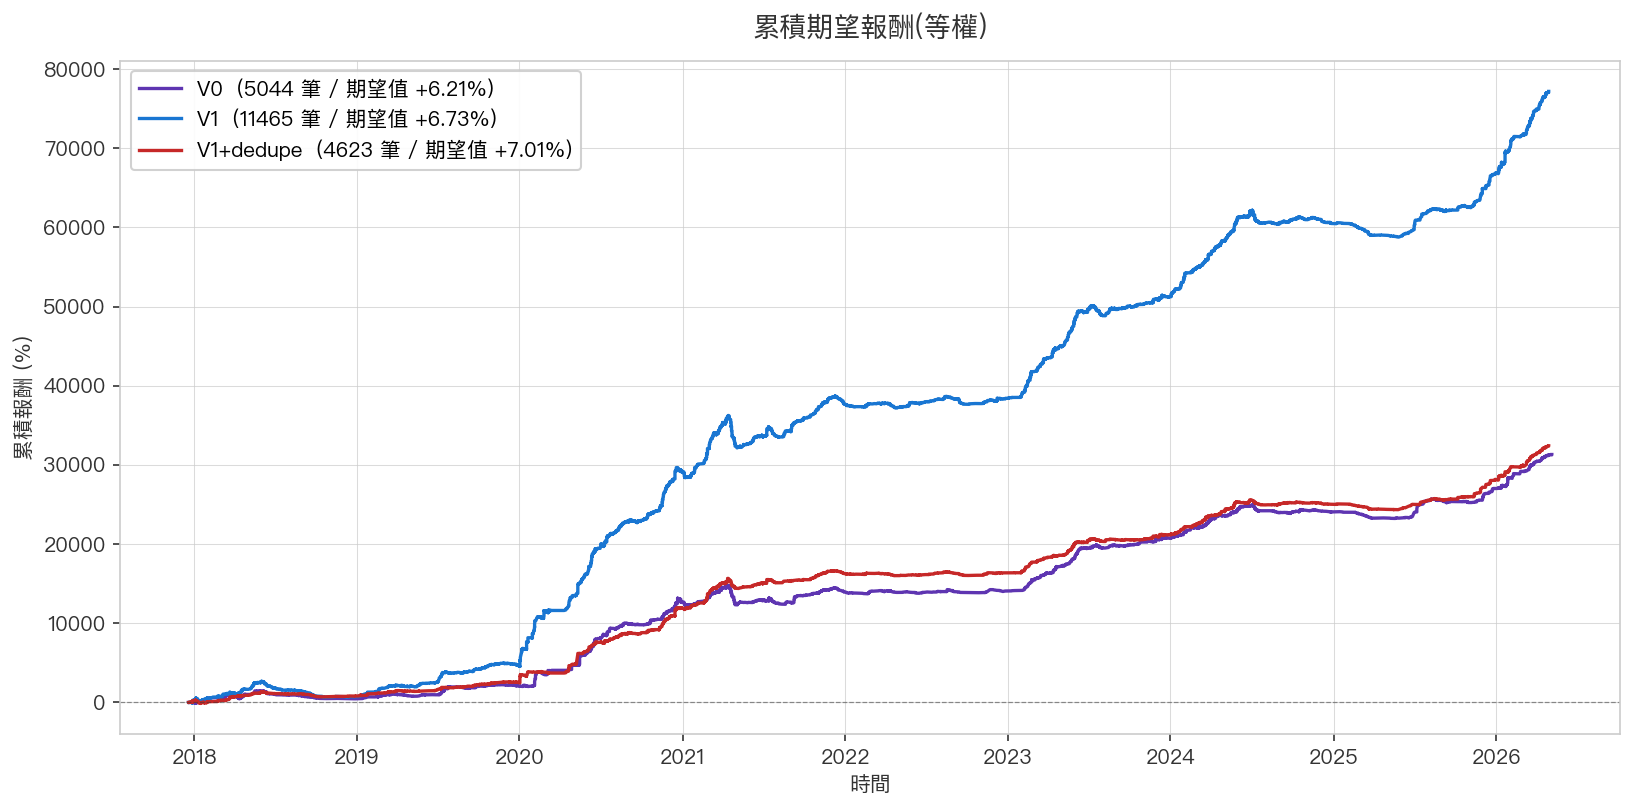
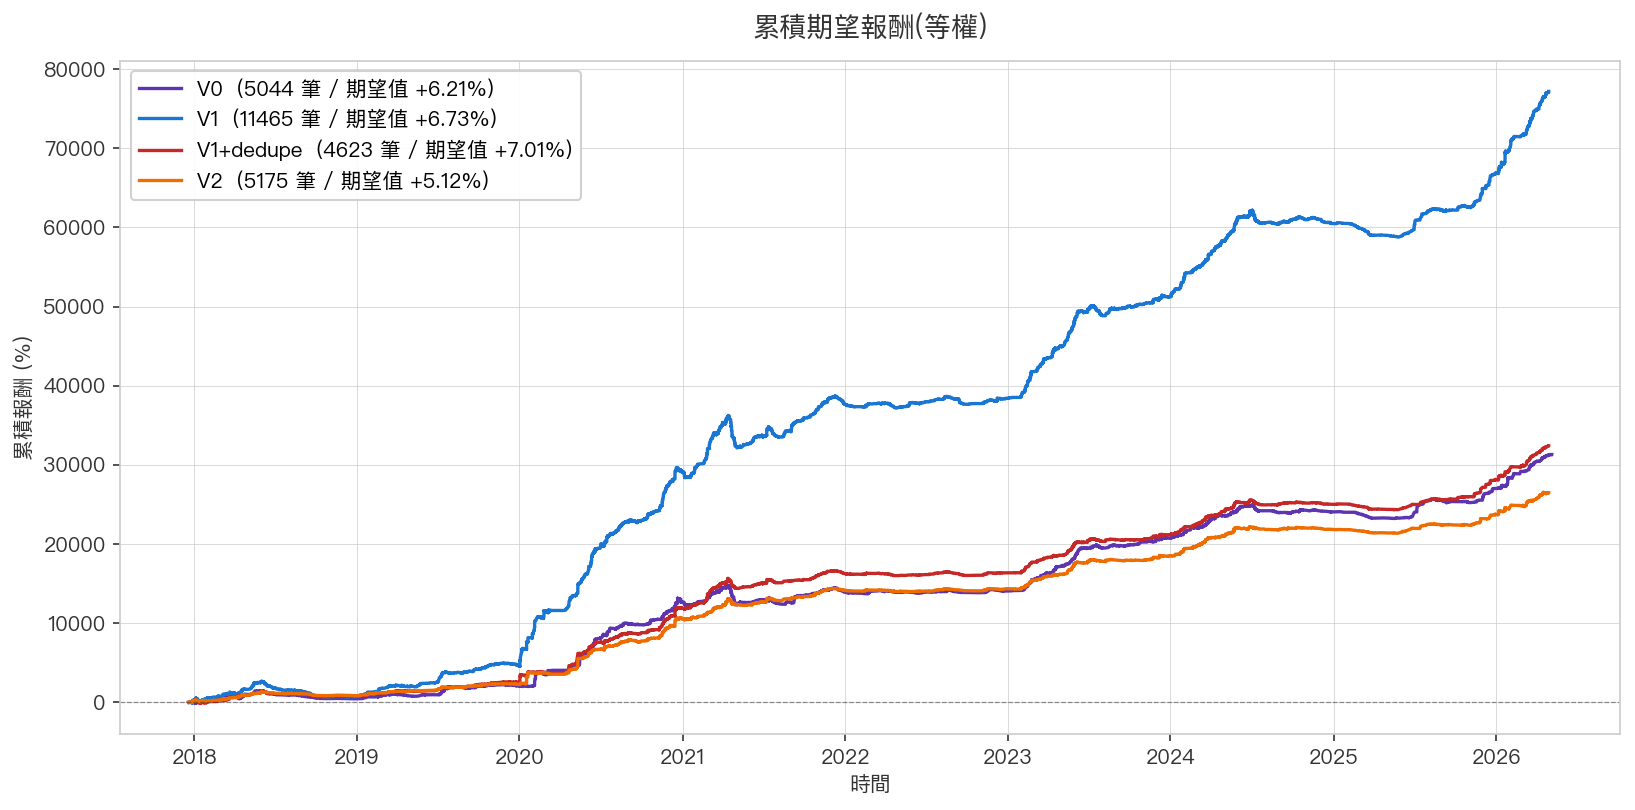
data(red-burst): 新增 V2 變體頁(D5 verify exit / 保守風險型)
V2 = V1+dedupe + D5 verify exit:
- 進場規則同 V1(D1 close 直接 / 漲停 D2 open)
- 進場後第 5 個交易日:D5 close < D1 close 則立即出場
- 否則進入 20 天滾動結算

V2 取捨(vs V1+dedupe):
- 期望值 +7.01% → +5.12% (-1.89%)
- 勝率 45.9% → 32.6% (-13.3pp)
- 最大輸單 -54.3% → -36.8% (改善 +17.5pp)
- 平均持有 30.4 → 20.2 天

V2 為保守選項,不取代現役 V1+dedupe。

新增:
- docs/about/strategy_red_burst_v2.md
- mkdocs.yml nav 加 V2 子頁
- 主頁總表加 V2 行 + 5 張圖含 V2(橘色)

diff --git a/docs/about/strategy_red_burst_v2.md b/docs/about/strategy_red_burst_v2.md
@@ -1,0 +1,125 @@
+# 🛡 紅爆 V2(D5 verify exit — 早期止損版)
+
+> **狀態**:V2 為「**保守風險型變體**」,backtest 驗證後不取代現役 V1+dedupe,
+> 但保留作為「想嚴控大跌風險」場景的選項。
+
+---
+
+## 設計動機
+
+V0 用 D4/D5 驗證**決定是否進場**(早期過濾假突破)。V2 反過來用 — V1 進場(D1
+直接),但**進場後第 5 個交易日驗證**:
+
+```
+若 D5 close < D1 close  → 立即出場(早期止損,放棄 20 天結算)
+若 D5 close ≥ D1 close  → 進入正常 20 天滾動結算
+```
+
+V2 的核心問題:**V1 期望值雖高(+7.01%),但最大輸單 -54% 的尾部風險嚇人**。
+V2 用「進場 5 天看苗頭不對就跑」換取風險改善。
+
+---
+
+## 進場條件
+
+跟 [V1](strategy_red_burst_v1.md) **完全相同**:
+
+| Step | 條件 |
+|------|------|
+| 1 | D1 創 400 日新高 + 量 ≥ 20 日均量 3x |
+| 2 | D1 收盤(13:00 後)直接進場;漲停則 D2 開盤進場 |
+| 3 | Forward dedupe(同檔 active 不重複進場)|
+
+---
+
+## 出場條件 — D5 verify + 20 天結算
+
+```
+進場 → 第 5 個交易日(自 D1 算起):
+  D5 close < D1 close → 立即出場(early exit)
+  D5 close ≥ D1 close → 滾動 20 天結算 ≥ 5%(同 V1)
+```
+
+---
+
+## 📊 9 年回測對比
+
+| 指標 | V1+dedupe | **V2** | 差距 |
+|------|----------|----|------|
+| 樣本(進場數) | 4623 | **5175** | +552(更多獨立 trade)|
+| 勝率 | **45.9%** | **32.6%** | **-13.3pp** ⬇ |
+| 平均獲利 | +25.58% | **+27.58%** | +2.00 |
+| 平均虧損 | -8.73% | **-5.76%** | **+2.97** ✅ |
+| **每筆期望值** | **+7.01%** | **+5.12%** | **-1.89** ⬇ |
+| 中位數報酬 | -0.98% | -2.22% | -1.24 |
+| **平均持有** | 30.4 天 | **20.2 天** | **-10.2 天**(資金週轉快)|
+| 最大贏單 | +1075% | +1075% | 持平 |
+| **最大輸單** | -54.3% | **-36.8%** | **+17.5pp** ✅✅ |
+
+### 5 張對比圖
+
+![累積期望](../assets/red_burst/cumulative_expectancy.png)
+
+橘線(V2)累積斜率比紅線(V1+dedupe)平緩,但**回檔幅度小**(風險可控)。
+
+![年度勝率](../assets/red_burst/yearly_winrate.png)
+
+V2 勝率每年都低於 V1+dedupe ~13pp,**這是 D5 早期止損的代價**。
+
+![報酬分布](../assets/red_burst/return_distribution.png)
+
+V2 分布**左尾(虧損)壓縮明顯**:沒有 -50%+ 的單筆,大部分虧損 < 10%。
+
+![核心指標](../assets/red_burst/summary_compare.png)
+
+![總期望](../assets/red_burst/total_expectancy.png)
+
+V2 總期望 = 5.12% × 5175 = **265 點**,vs V1+dedupe 的 324 點(-18%)。
+
+---
+
+## 為何勝率下降這麼多?
+
+V1+dedupe 跑 30 天結算,**進場後初期 5 天內回檔**很常見(健康洗盤),
+這些 trade 後續會反彈走完整波段。
+
+V2 直接在 D5 砍掉:
+- 砍掉的 5388 筆中,**約 13% 後續會走到 +20% 以上**(被 V2 砍時可能在 -2% ~ -5%)
+- 換來的是把「**進場後 5 天就-15% 以上的失敗 trade**」全部止血
+
+→ **V2 用許多潛在贏單換少數大虧單的避免**。
+
+---
+
+## V1+dedupe vs V2 的選擇
+
+| 你是哪種人 | 推薦 |
+|-----------|------|
+| 想最大化長期期望值,能承受單筆 -50% 的偶發大虧 | **V1+dedupe** |
+| 怕單筆爆倉,想嚴控最大輸單 | **V2** |
+| 資金週轉快,想多開倉位 | **V2**(平均持有 20 天 vs 30 天)|
+| 心理可承受連續小虧,等大贏 | V1+dedupe(中位數 -0.98% vs -2.22%)|
+
+### 量化建議
+
+從**夏普比率**角度(粗略估):
+- V1+dedupe: 7.01% / 8.73% ≈ 0.80
+- V2: 5.12% / 5.76% ≈ 0.89(略高,因為虧損縮)
+
+但若考慮「**最大回撤偏好**」:
+- V1+dedupe 單筆最差 -54.3%
+- V2 單筆最差 -36.8%
+
+→ **保守投資者 V2 較合適**,但要接受期望值低 27%。
+
+---
+
+## 還沒驗證的:V2 是否真的「砍對」?
+
+backtest 不能驗證的事情:
+- 被 V2 D5-exit 砍掉的 trade,如果繼續持有真實 20 天結算,期望值是多少?
+- 是不是大部分都是「假回檔後反彈」?(若是 → V2 反而錯失贏家)
+
+**待 forward 累積 100+ trade 後分析**,才能判斷 V2 是否值得切換。
+
+回到 → [紅爆策略主頁](strategy_red_burst.md)

diff --git a/docs/about/strategy_red_burst.md b/docs/about/strategy_red_burst.md
@@ -92,20 +92,22 @@
 
 紅爆策略經過 **3 個版本演進**,每一版都用 9 年全市場 backtest 驗證後才切換。
 
-| 階段 | 版本 | 核心改動 | 期望值 | 勝率 | 樣本 |
-|------|------|---------|--------|------|------|
-| 1 | V0 | D4/D5 驗證後 D5 進場 | +6.10% | 42.7% | 5044 |
-| 2 | V1 | D1 收盤直接進場(漲停則 D2 開盤)| +6.95% | 43.6% | 11465 |
-| 3 | **V1+dedupe**(現役)| 同檔持有期間不重複 | **+7.01%** | **45.9%** | **4623** |
+| 階段 | 版本 | 核心改動 | 期望值 | 勝率 | 最大輸單 | 樣本 |
+|------|------|---------|--------|------|---------|------|
+| 1 | V0 | D4/D5 驗證後 D5 進場 | +6.10% | 42.7% | -45% | 5044 |
+| 2 | V1 | D1 直接進場(漲停 D2 開)| +6.95% | 43.6% | -54% | 11465 |
+| 3 | **V1+dedupe**(現役)| 同檔不重複進場 | **+7.01%** | **45.9%** | -54% | **4623** |
+| 4* | V2(保守選項)| V1+dedupe + D5 verify exit | +5.12% | 32.6% | **-37%** | 5175 |
 
-> 樣本 V1 重複版最大,但那是「同檔多筆同時進場」放大,
-> 實戰一倉一筆才能拿到 V1+dedupe 的乾淨數字。
+> *V2 不取代 V1+dedupe,作為「想嚴控大跌風險」的保守選項保留。
+> 用 1.89% 期望值換 17pp 最大輸單改善 + 持有時間縮短 33%。
 
 詳細各版本設計動機 + backtest 圖表見子頁:
 
 - 📜 [V0 — D5 進場版本](strategy_red_burst_v0.md)(原版,2026-05 上線)
 - 🚀 [V1 — D1 直接進場](strategy_red_burst_v1.md)(2026-05 backtest 驗證)
 - 🎯 [Dedupe — 同檔不重複進場](strategy_red_burst_dedupe.md)(2026-05 整合上線)
+- 🛡 [V2 — D5 verify exit(早期止損)](strategy_red_burst_v2.md)(2026-05 保守選項)
 
 ---
 
